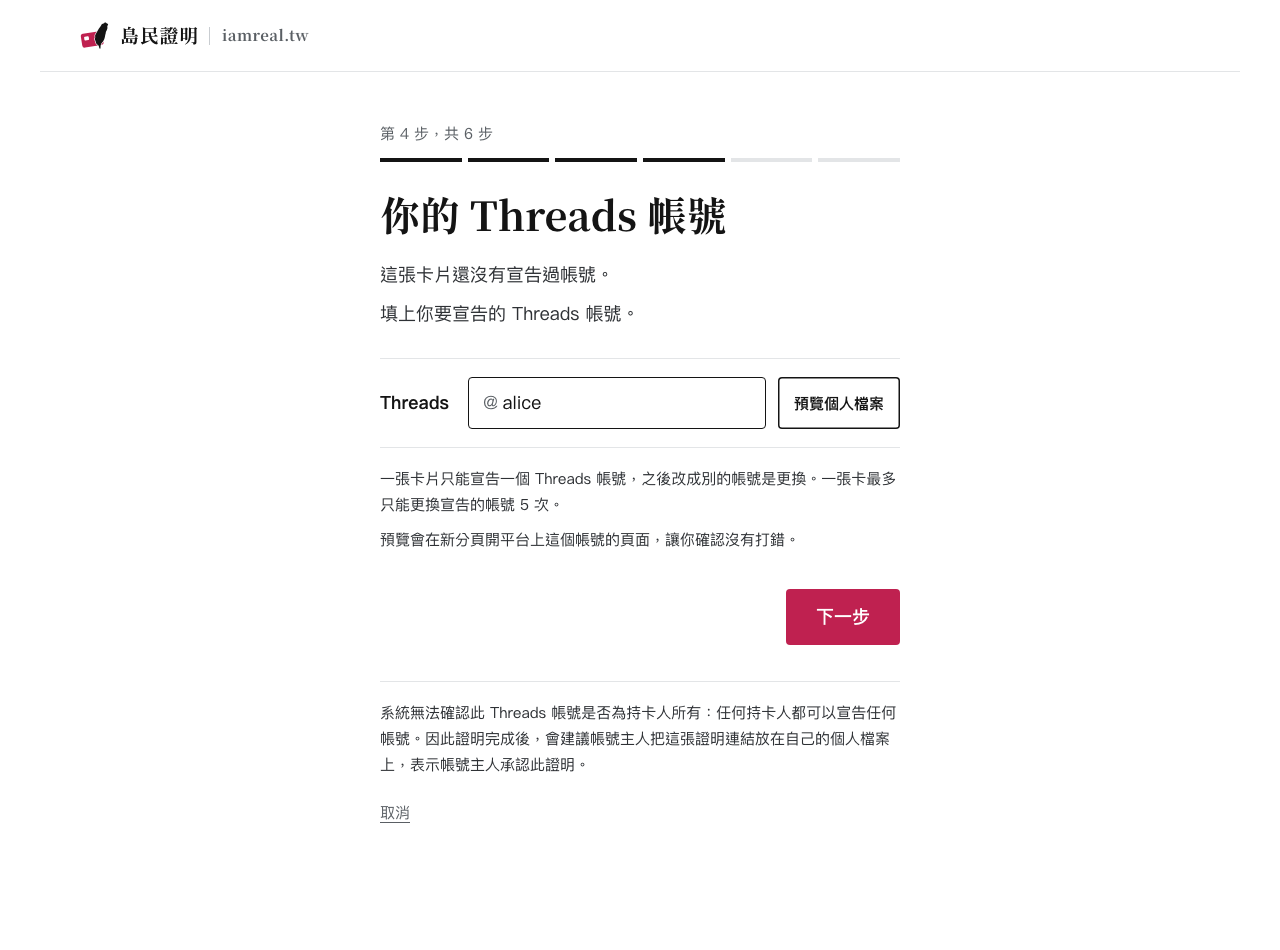
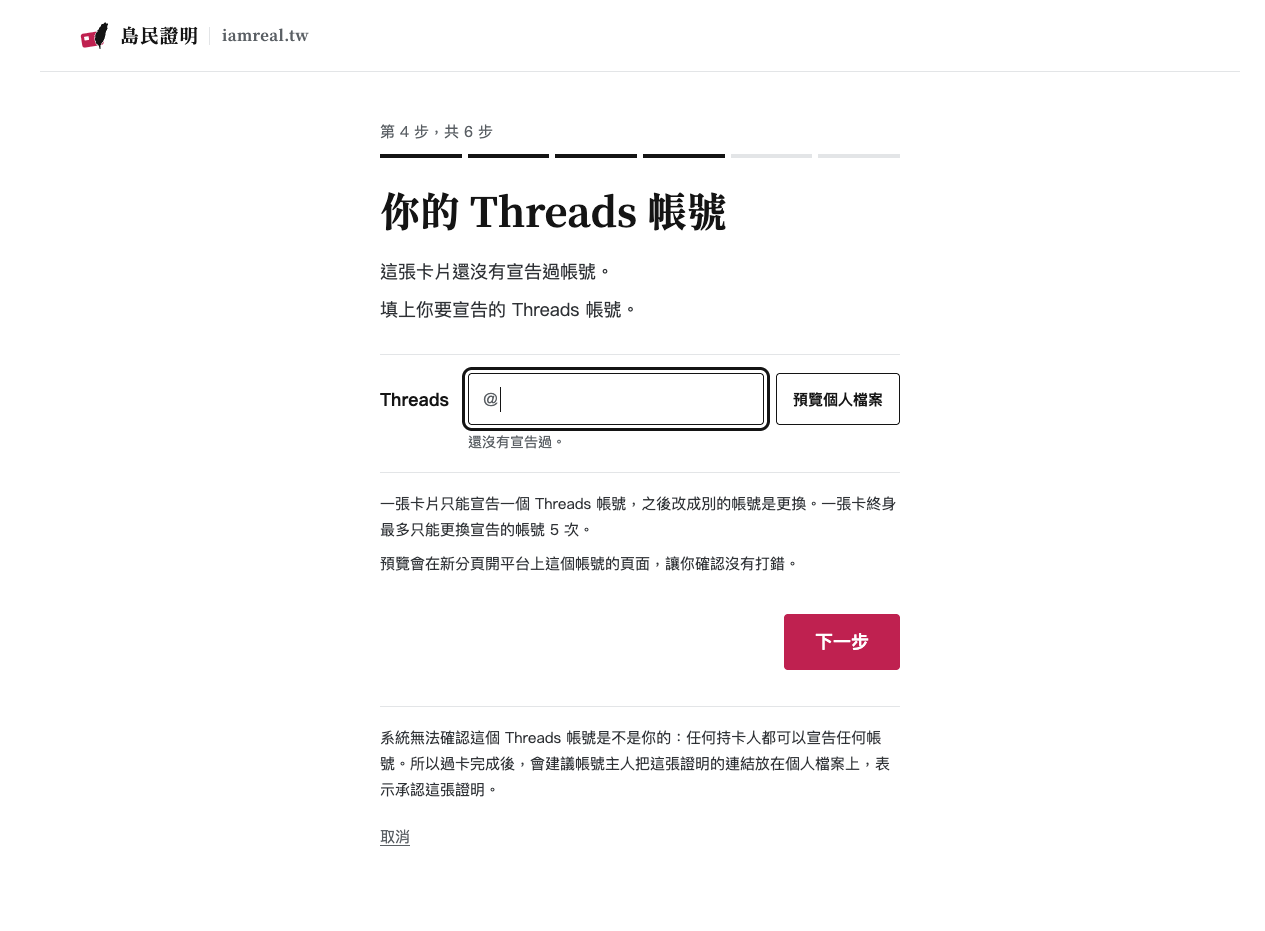
設計截圖：網頁過卡第 1 到 5 步換成實作版（#291）
web/test/e2e/ui.ts 在 1280px 寬拍的，只認得 Threads 的平台表；第 1 步是正式的建置。

diff --git a/web/src/ui/app.ts b/web/src/ui/app.ts
@@ -29,8 +29,8 @@
 // send the cardholder elsewhere. They have no link to another page
 // (docs/design/principles.md, principle 1), but for the one written after
 // a stop that the cardholder cannot get past on this page (links.prepare,
-// after stops.component_unreachable). The new tab gets the account typed and nothing
-// else; this page loads nothing from the platform.
+// after stops.component_unreachable). The new tab gets the account typed
+// and nothing else; this page loads nothing from the platform.
 //
 // Every sentence comes from copy.ts; the platforms, their display names and
 // formats from the server's table (the engine's CardStatus); each
@@ -79,7 +79,6 @@ export interface AppOptions {
 
 /** The six steps (card-proof.md). */
 const STEPS = 6;
-
 
 function helpLink(topic: HelpTopic): HTMLAnchorElement {
   // A new tab: leaving this page would end the card proof.

diff --git a/design/screens/README.md b/design/screens/README.md
@@ -41,17 +41,19 @@
 
 ### 網頁的過卡流程（`/proof/`）
 
+實作版是 `web/` 的無頭瀏覽器測試（`web/test/e2e/ui.ts`）在 1280px 寬拍的，只認得 Threads 的平台表（第 1 步是正式的建置）；帳號、島民編號、日期是測試的假資料。
+
 | 截圖 | 畫面 | 版本 |
 |---|---|---|
-| `card-proof-web-1-before-desktop.png` | 第 1 步：開始之前 | 定稿版 |
-| `card-proof-web-2-read-desktop.png` | 第 2 步：讀取卡片 | 定稿版 |
-| `card-proof-web-2-read-revoked-desktop.png` | 第 2 步：憑證已經被廢止，停在這裡 | 定稿版 |
-| `card-proof-web-3-pin-desktop.png` | 第 3 步：輸入 PIN | 定稿版 |
-| `card-proof-web-4-accounts-first-desktop.png` | 第 4 步：你的帳號，還沒宣告過 | 定稿版 |
-| `card-proof-web-4-accounts-existing-desktop.png` | 第 4 步：你的帳號，已經有宣告 | 定稿版 |
-| `card-proof-web-5-confirm-new-desktop.png` | 第 5 步：確認，新宣告 | 定稿版 |
-| `card-proof-web-5-confirm-switch-desktop.png` | 第 5 步：確認，更換 | 定稿版 |
-| `card-proof-web-5-progress-desktop.png` | 第 5 步：進行中 | 定稿版 |
+| `card-proof-web-1-before-desktop.png` | 第 1 步：開始之前（正式的建置，只認得 Threads） | 實作版 |
+| `card-proof-web-2-read-desktop.png` | 第 2 步：讀取卡片 | 實作版 |
+| `card-proof-web-2-read-revoked-desktop.png` | 第 2 步：憑證已經被廢止，停在這裡 | 實作版 |
+| `card-proof-web-3-pin-desktop.png` | 第 3 步：輸入 PIN | 實作版 |
+| `card-proof-web-4-accounts-first-desktop.png` | 第 4 步：你的帳號，還沒宣告過 | 實作版 |
+| `card-proof-web-4-accounts-existing-desktop.png` | 第 4 步：你的帳號，已經有宣告 | 實作版 |
+| `card-proof-web-5-confirm-new-desktop.png` | 第 5 步：確認，新宣告 | 實作版 |
+| `card-proof-web-5-confirm-switch-desktop.png` | 第 5 步：確認，改成別的帳號（實作版是當天宣告的帳號再改掉，不算一次更換） | 實作版 |
+| `card-proof-web-5-progress-desktop.png` | 第 5 步：進行中 | 實作版 |
 | `card-proof-web-6-done-desktop.png` | 第 6 步：完成 | 定稿版 |
 
 ### app 的過卡流程
